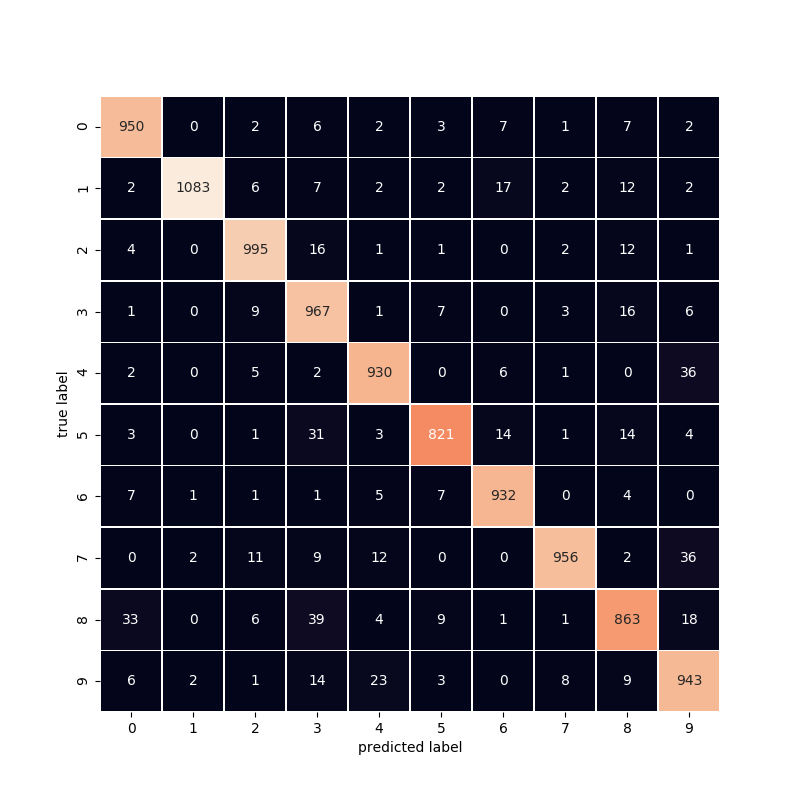
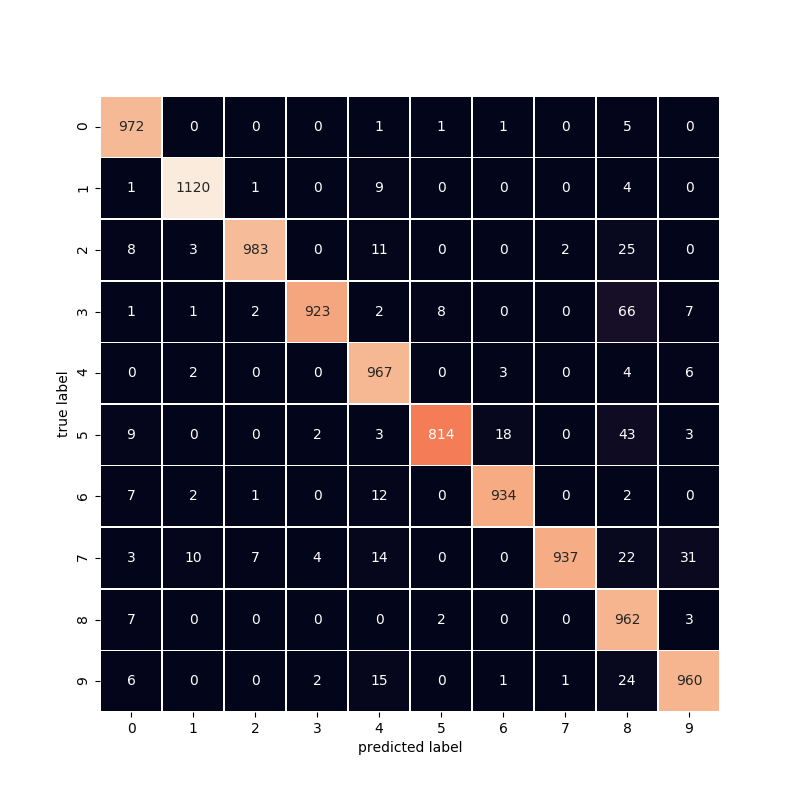
MNIST with MiniVGGNet

diff --git a/bravo/mnist_charlie.py b/bravo/mnist_charlie.py
@@ -4,7 +4,7 @@ from keras.datasets.mnist import load_data
 from keras.utils import to_categorical
 
 from keras.models import Sequential
-from keras.layers import Dense, Dropout, Flatten
+from keras.layers import Dense, Dropout, Flatten, BatchNormalization
 from keras.layers import Conv2D, MaxPooling2D, Activation
 
 import numpy as np
@@ -24,25 +24,40 @@ def get_keras_mnist_dataset(parameters=None):
     return train_X, train_y, test_X, test_y, data_shape, labels
 
 
-def build_LeNet(data_shape, num_classes):
-    print('# LeNet')
+def build_MiniVGGNet(data_shape, num_classes):
+    print('# MiniVGGNet')
     print("##   Build")
+    # initialize the model along with the input shape to be
+    # "channels last" and the channels dimension itself
     model = Sequential()
+    channels_dimension = -1
 
-    # first set of CONV => RELU
-    model.add(Conv2D(20, (3, 3), strides=(2, 2), padding="same", input_shape=data_shape))
+    # first CONV => RELU => CONV => RELU => POOL layer set
+    model.add(Conv2D(32, (3, 3), padding="same", input_shape=data_shape))
     model.add(Activation("relu"))
-    # model.add(MaxPooling2D(pool_size=(2, 2), strides=(2, 2)))
+    model.add(BatchNormalization(axis=channels_dimension))
+    model.add(Conv2D(32, (3, 3), padding="same"))
+    model.add(Activation("relu"))
+    model.add(BatchNormalization(axis=channels_dimension))
+    model.add(MaxPooling2D(pool_size=(2, 2)))
+    model.add(Dropout(0.25))
 
-    # second set of CONV => RELU
-    model.add(Conv2D(50, (3, 3), strides=(2, 2), padding="same"))
+    # second CONV => RELU => CONV => RELU => POOL layer set
+    model.add(Conv2D(64, (3, 3), padding="same"))
     model.add(Activation("relu"))
-    # model.add(MaxPooling2D(pool_size=(2, 2), strides=(2, 2)))
+    model.add(BatchNormalization(axis=channels_dimension))
+    model.add(Conv2D(64, (3, 3), padding="same"))
+    model.add(Activation("relu"))
+    model.add(BatchNormalization(axis=channels_dimension))
+    model.add(MaxPooling2D(pool_size=(2, 2)))
+    model.add(Dropout(0.25))
 
     # first (and only) set of FC => RELU layers
     model.add(Flatten())
-    model.add(Dense(500))
+    model.add(Dense(512))
     model.add(Activation("relu"))
+    model.add(BatchNormalization())
+    model.add(Dropout(0.5))
 
     # softmax classifier
     model.add(Dense(num_classes))
@@ -51,15 +66,12 @@ def build_LeNet(data_shape, num_classes):
     print("##   Compile")
     model.compile(optimizer='adadelta', loss="categorical_crossentropy", metrics = ['accuracy'])
 
-    model.summary()
-    
     return model
 
 
 if __name__ == '__main__':
     train_X, train_y, test_X, test_y, data_shape, labels = get_keras_mnist_dataset()
-    model = build_LeNet(data_shape, len(labels))
+    model = build_MiniVGGNet(data_shape, len(labels))
     classifier = Classifier()
     classifier.train_epochs = 4
-    classifier.output = 'bravo'
     classifier.train(model, train_X, train_y, test_X, test_y, labels)

diff --git a/bravo/Core/Classifiers.py b/bravo/Core/Classifiers.py
@@ -1,8 +1,6 @@
 # import the necessary packages
 from pathlib import Path
-
 from sklearn.metrics import confusion_matrix, classification_report, accuracy_score
-
 import numpy as np
 import matplotlib.pyplot as plt
 import seaborn as sns
